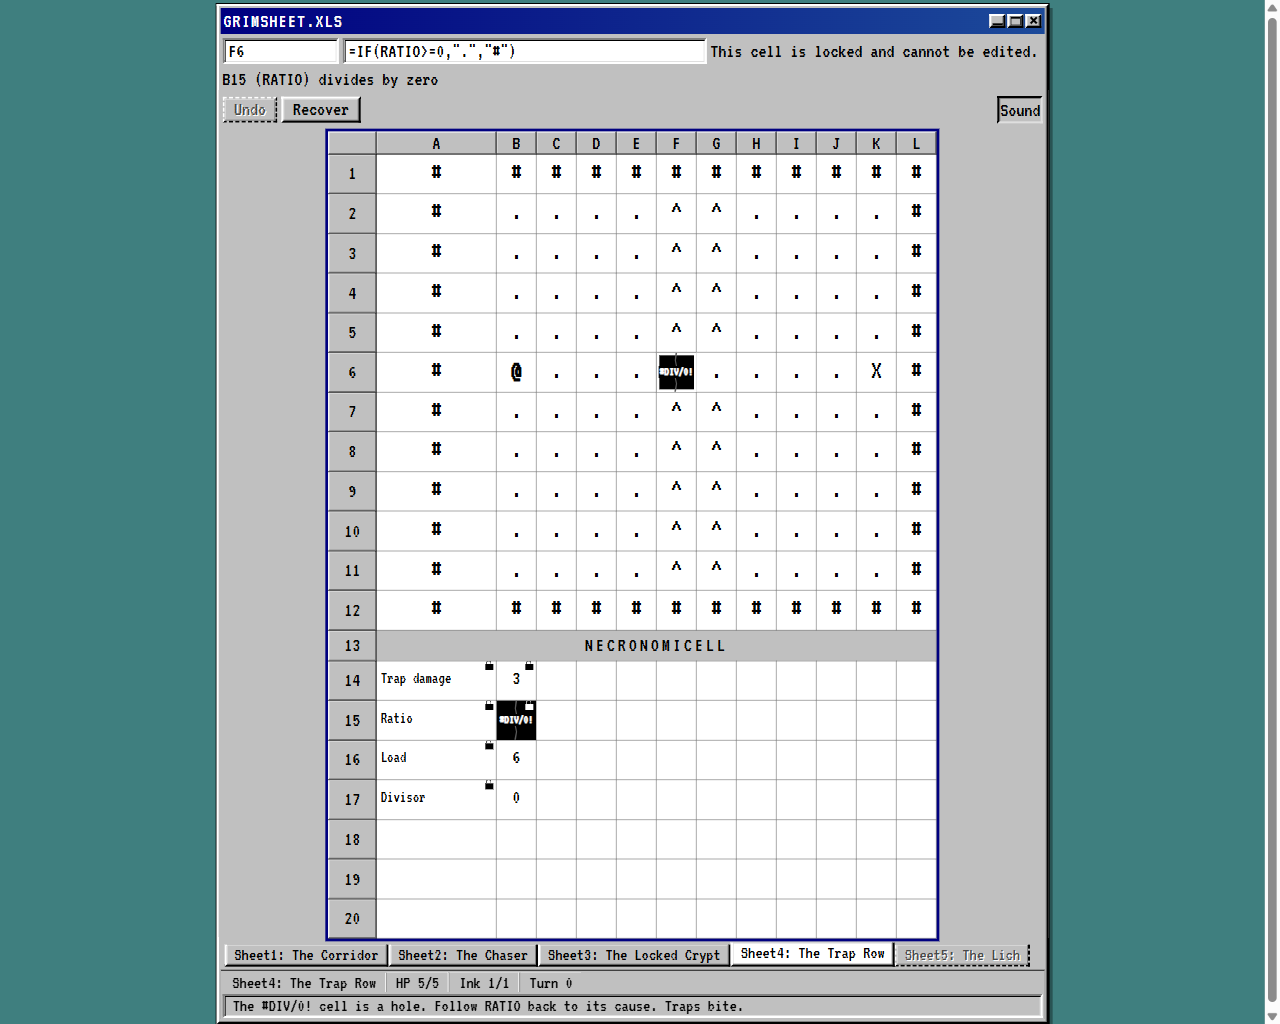
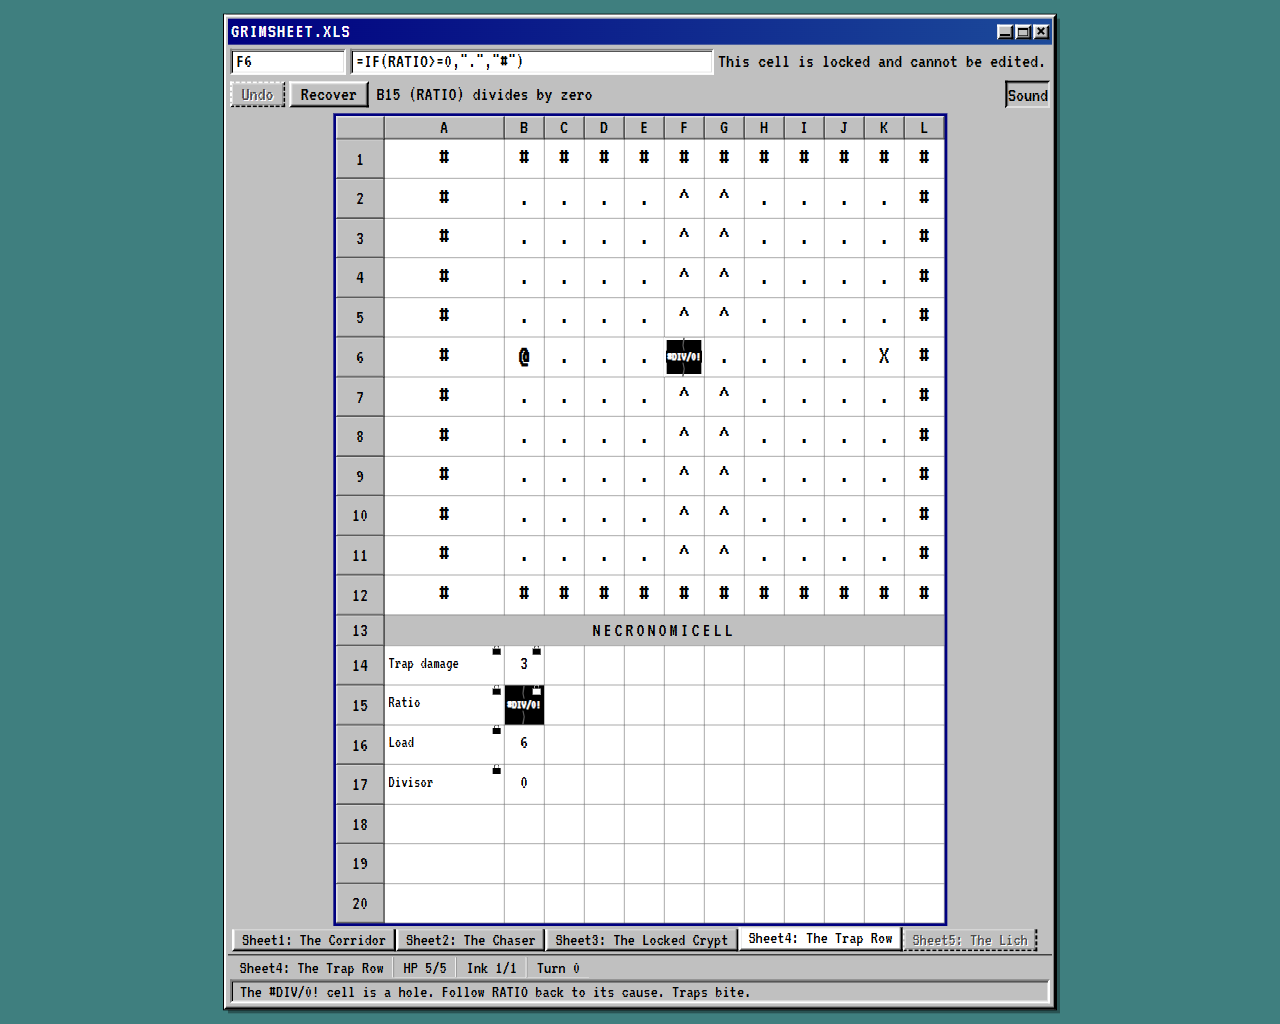
Kiro IDE: cause line moves to the toolbar row, no layout shift when selecting error cells, 04 retaken

Changed region(s): [[0.1562, 0.0, 0.8438, 1.0], [0.9688, 0.0, 1.0, 1.0]]

diff --git a/tests/e2e/layout-shift.spec.ts b/tests/e2e/layout-shift.spec.ts
@@ -1,0 +1,91 @@
+import { expect, test } from '@playwright/test';
+import type { Page } from '@playwright/test';
+
+// Selecting or deselecting a cell must not move or resize the window, and the page must never need a
+// vertical scrollbar at 1280 by 1024 (a scrollbar narrows the page and makes the window jump sideways).
+
+const LEVEL_IDS = [
+  '01-the-corridor',
+  '02-the-chaser',
+  '03-the-locked-crypt',
+  '04-the-trap-row',
+  '05-the-lich',
+] as const;
+
+test.use({ viewport: { width: 1280, height: 1024 } });
+
+/** Seeds the stored progress so that level `n` (1-based) is the current, unlocked one, then starts it. */
+async function startLevel(page: Page, n: number): Promise<void> {
+  await page.addInitScript(
+    (value) => {
+      window.localStorage.setItem('grimsheet.progress', JSON.stringify(value));
+    },
+    { version: 1, cleared: LEVEL_IDS.slice(0, n - 1), current: LEVEL_IDS[n - 1] },
+  );
+  await page.goto('/');
+  await page.locator('#title-start').click();
+  await expect(page.locator('#title-dialog')).toHaveCount(0);
+  await expect(page.locator('#status-bar')).toContainText(`Sheet${n}:`);
+}
+
+async function windowBox(page: Page): Promise<{ x: number; y: number; width: number; height: number }> {
+  const box = await page.locator('#window').boundingBox();
+  if (box === null) throw new Error('#window has no bounding box');
+  return box;
+}
+
+const scrollHeight = (page: Page): Promise<number> => page.evaluate(() => document.documentElement.scrollHeight);
+const pageWidth = (page: Page): Promise<number> => page.evaluate(() => document.documentElement.clientWidth);
+
+test('level 4: selecting and deselecting the error cell F6 leaves the window and the page unchanged', async ({
+  page,
+}) => {
+  await startLevel(page, 4);
+  const explanation = page.locator('#cell-explanation');
+  await expect(explanation).toBeHidden();
+
+  const before = await windowBox(page);
+  const widthBefore = await pageWidth(page);
+  expect(await scrollHeight(page)).toBeLessThanOrEqual(1024);
+
+  await page.locator('[data-address="F6"]').click();
+  await expect(explanation).toBeVisible();
+  await expect(explanation).toContainText('divides by zero');
+
+  expect(await windowBox(page)).toEqual(before);
+  expect(await pageWidth(page)).toBe(widthBefore);
+  expect(await scrollHeight(page)).toBeLessThanOrEqual(1024);
+
+  // Deselect: a plain floor cell has no cause line.
+  await page.locator('[data-address="C6"]').click();
+  await expect(explanation).toBeHidden();
+  expect(await windowBox(page)).toEqual(before);
+  expect(await scrollHeight(page)).toBeLessThanOrEqual(1024);
+});
+
+test('all five levels: selecting any error cell keeps the window box and a page height of at most 1024', async ({
+  page,
+}) => {
+  let errorCellsSeen = 0;
+  for (let n = 1; n <= LEVEL_IDS.length; n++) {
+    // A fresh page per level keeps the seeded progress and the layout measurements independent.
+    await page.goto('about:blank');
+    await startLevel(page, n);
+
+    const before = await windowBox(page);
+    expect(await scrollHeight(page), `level ${n} at start`).toBeLessThanOrEqual(1024);
+
+    const addresses = await page.locator('td[data-error]').evaluateAll((cells) =>
+      cells.map((cell) => cell.getAttribute('data-address') ?? ''),
+    );
+    for (const address of addresses) {
+      errorCellsSeen += 1;
+      await page.locator(`[data-address="${address}"]`).click();
+      await expect(page.locator('#cell-explanation')).toBeVisible();
+      expect(await windowBox(page), `level ${n}, ${address} selected`).toEqual(before);
+      expect(await scrollHeight(page), `level ${n}, ${address} selected`).toBeLessThanOrEqual(1024);
+    }
+  }
+  // Level 4 has a #DIV/0! cell on the map and in the rules panel; level 5 has the two cycle cells.
+  expect(errorCellsSeen).toBeGreaterThanOrEqual(4);
+});

diff --git a/src/ui/render.ts b/src/ui/render.ts
@@ -157,7 +157,7 @@ export function createView(root: HTMLElement): View {
   formulaAlert.setAttribute('role', 'alert');
   const explanation = make(doc, 'p', 'cell-explanation', 'cell-explanation');
   explanation.hidden = true;
-  formulaRow.append(nameBox, formulaBar, formulaNote, formulaAlert, explanation);
+  formulaRow.append(nameBox, formulaBar, formulaNote, formulaAlert);
 
   const toolbar = make(doc, 'div', 'toolbar');
   const buttonFor = (control: string, label: string): HTMLButtonElement => {
@@ -173,7 +173,9 @@ export function createView(root: HTMLElement): View {
   nextButton.hidden = true;
   const soundButton = buttonFor('sound', STRINGS.buttons.sound);
   soundButton.setAttribute('aria-pressed', 'true');
-  toolbar.append(undoButton, recoverButton, nextButton, soundButton);
+  // The cause line lives in the toolbar row, in the free space between the buttons and Sound, so showing
+  // or hiding it never changes the window height (a line of its own in the formula row did).
+  toolbar.append(undoButton, recoverButton, nextButton, explanation, soundButton);
 
   const table = make(doc, 'table', 'grid-table', 'grid-table');
   table.setAttribute('role', 'grid');
@@ -365,6 +367,7 @@ export function createView(root: HTMLElement): View {
 
     setText(explanation, vm.explanation?.text ?? '');
     setAttr(explanation, 'data-error', vm.explanation?.kind);
+    setAttr(explanation, 'title', vm.explanation?.text);
     const explanationHidden = vm.explanation === undefined;
     if (explanation.hidden !== explanationHidden) explanation.hidden = explanationHidden;
 

diff --git a/src/ui/render.test.ts b/src/ui/render.test.ts
@@ -278,12 +278,26 @@ describe('cell attributes', () => {
 });
 
 describe('explanation line', () => {
-  it('has no role and no aria-live and sits in the formula row', () => {
+  it('has no role and no aria-live and sits in the toolbar row, not the formula row', () => {
     createView(root).update(makeVm());
     const explanation = root.querySelector('#cell-explanation');
     expect(explanation?.hasAttribute('role')).toBe(false);
     expect(explanation?.hasAttribute('aria-live')).toBe(false);
     expect(explanation?.classList.contains('cell-explanation')).toBe(true);
+    // A line of its own in the formula row made the window taller (layout shift); the toolbar row has room.
+    expect(explanation?.parentElement?.classList.contains('toolbar')).toBe(true);
+    expect(root.querySelector('.formula-row #cell-explanation')).toBeNull();
+  });
+
+  it('keeps the full text in the title while shown and drops it when hidden', () => {
+    const view = createView(root);
+    view.update(makeVm({}, { explanation: { text: 'B15 (RATIO) divides by zero', kind: '#DIV/0!' } }));
+    const shown = root.querySelector<HTMLElement>('#cell-explanation');
+    expect(shown?.hidden).toBe(false);
+    expect(shown?.getAttribute('title')).toBe('B15 (RATIO) divides by zero');
+    view.update(makeVm());
+    expect(shown?.hidden).toBe(true);
+    expect(shown?.hasAttribute('title')).toBe(false);
   });
 
   it('fills text, data-error and hidden from the view model', () => {

diff --git a/src/styles/chrome.css b/src/styles/chrome.css
@@ -210,9 +210,17 @@ body {
   color: var(--alert);
 }
 
+/* The cause line shares the toolbar row, between the buttons and Sound. It takes the spare width and
+   never wraps, so showing or hiding it cannot change the window height; a cause too long for the row
+   is clipped with an ellipsis (the full text stays in the DOM and in the title). */
 .cell-explanation {
-  flex: 1 0 100%;
-  margin: 0;
+  flex: 1 1 0;
+  align-self: center;
+  min-width: 0;
+  margin: 0 0.25rem;
+  overflow: hidden;
+  white-space: nowrap;
+  text-overflow: ellipsis;
 }
 
 .toolbar {

diff --git a/.kiro/specs/skin-and-sound/tasks.md b/.kiro/specs/skin-and-sound/tasks.md
@@ -139,7 +139,7 @@ Rules that apply to every task:
 
   - [x] 6.2 [Batch 6] [IDE] Take the README screenshots (last task)
     - Files: create `docs/screenshots/01-title.png`, `docs/screenshots/02-level-play.png`, `docs/screenshots/03-monster-formula.png`, `docs/screenshots/04-error-monster.png`, `docs/screenshots/05-death-dialog.png`, `docs/screenshots/06-win-dialog.png`, `docs/screenshots/07-small-viewport.png`, `docs/screenshots/README.md`
-    - Manual and Playwright-MCP-driven; run it only after every other task is ticked. Start the dev server in the background with `node node_modules/vite/bin/vite.js`, use a clean browser profile (`localStorage.clear()` before the first shot) and check `document.documentElement.scrollHeight <= 1024` at 1280 by 1024 before shooting. Before every shot, wait until no finite animation is still running: poll `document.getAnimations()` until none has `playState === 'running'` and a finite iteration count (ignore the endless ghost drift, which never finishes), so no slide or flash is caught mid-frame. Seed later levels with `localStorage.setItem('grimsheet.progress', JSON.stringify({ version: 1, cleared: [<ids before the level>], current: '<level id>' }))` and reload; level ids are `01-the-corridor`, `02-the-chaser`, `03-the-locked-crypt`, `04-the-trap-row`, `05-the-lich`. Deterministic action lists, all at 1280 by 1024 except the last: `01-title.png` clear storage, reload, shoot with the title dialog open and Start focused; `02-level-play.png` click Start, seed level 3 (cleared 01 and 02), reload, Start, click `B17` (`KEY`), shoot with the NECRONOMICELL panel and `=RUNE_ASH*RUNE_SALT` in the formula bar; `03-monster-formula.png` seed level 2 (cleared 01), reload, Start, click `B14` (`MOVE_M1`), shoot with its formula in the formula bar and the monster on the map; `04-error-monster.png` seed level 4 (cleared 01 to 03), reload, Start, click `F6` (the `#DIV/0!` cell), shoot with the cause line under the formula bar; `05-death-dialog.png` seed level 5 (cleared 01 to 04), reload, Start, press Space six times (haunted from turn 0), shoot the lost dialog with the focus ring on Recover; `06-win-dialog.png` seed level 1, reload, Start, press ArrowRight nine times (B6 to K6), shoot the win dialog with Next level focused; `07-small-viewport.png` resize to 1366 by 768, clear storage, reload, Start, scroll so the status bar rests at the viewport bottom, shoot the viewport with HP, ink, turn and Message visible. If a given action list does not reach the stated state, report the real list that did and use it
+    - Manual and Playwright-MCP-driven; run it only after every other task is ticked. Start the dev server in the background with `node node_modules/vite/bin/vite.js`, use a clean browser profile (`localStorage.clear()` before the first shot) and check `document.documentElement.scrollHeight <= 1024` at 1280 by 1024 before shooting. Before every shot, wait until no finite animation is still running: poll `document.getAnimations()` until none has `playState === 'running'` and a finite iteration count (ignore the endless ghost drift, which never finishes), so no slide or flash is caught mid-frame. Seed later levels with `localStorage.setItem('grimsheet.progress', JSON.stringify({ version: 1, cleared: [<ids before the level>], current: '<level id>' }))` and reload; level ids are `01-the-corridor`, `02-the-chaser`, `03-the-locked-crypt`, `04-the-trap-row`, `05-the-lich`. Deterministic action lists, all at 1280 by 1024 except the last: `01-title.png` clear storage, reload, shoot with the title dialog open and Start focused; `02-level-play.png` click Start, seed level 3 (cleared 01 and 02), reload, Start, click `B17` (`KEY`), shoot with the NECRONOMICELL panel and `=RUNE_ASH*RUNE_SALT` in the formula bar; `03-monster-formula.png` seed level 2 (cleared 01), reload, Start, click `B14` (`MOVE_M1`), shoot with its formula in the formula bar and the monster on the map; `04-error-monster.png` seed level 4 (cleared 01 to 03), reload, Start, click `F6` (the `#DIV/0!` cell), shoot with the cause line on the toolbar row below the formula bar; `05-death-dialog.png` seed level 5 (cleared 01 to 04), reload, Start, press Space six times (haunted from turn 0), shoot the lost dialog with the focus ring on Recover; `06-win-dialog.png` seed level 1, reload, Start, press ArrowRight nine times (B6 to K6), shoot the win dialog with Next level focused; `07-small-viewport.png` resize to 1366 by 768, clear storage, reload, Start, scroll so the status bar rests at the viewport bottom, shoot the viewport with HP, ink, turn and Message visible. If a given action list does not reach the stated state, report the real list that did and use it
     - `docs/screenshots/README.md`: one line per file, seven lines, each naming the file and what it shows. Afterwards `localStorage.clear()`, close the browser, stop the dev server, remove temporary files, commit nothing
     - Look at every image and check that the shapes read as intended and the VT323 text is legible; list any visual problems found. Fix only trivial CSS bugs found this way; list anything else without fixing it
     - Tests: no new test file; the checks below are the test

diff --git a/.kiro/specs/skin-and-sound/design.md b/.kiro/specs/skin-and-sound/design.md
@@ -1096,7 +1096,7 @@ Playwright MCP, clean profile (start the dev server in the background; storage c
 | `01-title.png` | Clear storage, reload `/`. Screenshot with the title dialog open and Start focused. |
 | `02-level-play.png` | Click Start. Seed progress to level 3 (cleared 01, 02), reload, Start. Click `B17` (`KEY`), screenshot: NECRONOMICELL panel, formula bar with `=RUNE_ASH*RUNE_SALT`, padlocks only on the rules cells. |
 | `03-monster-formula.png` | Seed level 2 (cleared 01), reload, Start. Click `B14` (`MOVE_M1`). Screenshot with `=IF(DIST(HERO,SELF)<4,TOWARD(HERO),"-")` in the formula bar and the monster `M` on H6. |
-| `04-error-monster.png` | Seed level 4 (cleared 01 to 03), reload, Start. Click `F6` (the `#DIV/0!` cell); screenshot with the cause line under the formula bar. |
+| `04-error-monster.png` | Seed level 4 (cleared 01 to 03), reload, Start. Click `F6` (the `#DIV/0!` cell); screenshot with the cause line on the toolbar row below the formula bar. |
 | `05-death-dialog.png` | Seed level 5 (cleared 01 to 04), reload, Start. Press Space six times (the sheet is haunted from turn 0: HP 6 to 0, deterministic, verified with the headless play command). Screenshot with the "#REF! of the Dead" dialog and focus ring on Recover. |
 | `06-win-dialog.png` | Seed level 1, reload, Start. Press ArrowRight nine times (B6 to K6). Screenshot with the "Changes saved." dialog and Next level focused. |
 | `07-small-viewport.png` | Resize the viewport to **1366 by 768**. Clear storage, reload `/`, Start (level 1 in play). Scroll so the Status_Bar is at the viewport bottom; screenshot the full viewport showing the sticky Status_Bar (HP, Ink, Turn, Message) visible at the bottom while the top of the window is scrolled off. This is the only shot taken at 1366 by 768. |

diff --git a/docs/screenshots/README.md b/docs/screenshots/README.md
@@ -1,7 +1,7 @@
 01-title.png: the title dialog on a fresh profile, with the Start button focused (1280x1024).
 02-level-play.png: level 3, The Locked Crypt, with the KEY cell B17 selected and =RUNE_ASH*RUNE_SALT in the formula bar (1280x1024).
 03-monster-formula.png: level 2, The Chaser, with the monster M on the map and its move rule MOVE_M1 in the formula bar (1280x1024).
-04-error-monster.png: level 4, The Trap Row, with the #DIV/0! cell F6 selected and its cause line under the formula bar (1280x1024).
+04-error-monster.png: level 4, The Trap Row, with the #DIV/0! cell F6 selected and its cause line on the toolbar row below the formula bar (1280x1024).
 05-death-dialog.png: level 5, The Lich, after six waits in a haunted sheet, with the lost dialog and the focus ring on Recover (1280x1024).
 06-win-dialog.png: level 1, The Corridor, with the hero on K6 and the win dialog showing Next level focused (1280x1024).
 07-small-viewport.png: level 1 at 1366x768, scrolled so the status bar with HP, ink, turn and the message rests at the bottom of the viewport.

diff --git a/README.md b/README.md
@@ -184,7 +184,7 @@ Grimsheet was built with Kiro, from a single input brief (`docs/BRIEF.md`) that 
 
 *The title dialog: Start hands the grid to the player.*
 
-![Level 4, The Trap Row: the #DIV/0! cell F6 selected, its formula in the formula bar, and the cause line "B15 (RATIO) divides by zero" under it.](docs/screenshots/04-error-monster.png)
+![Level 4, The Trap Row: the #DIV/0! cell F6 selected, its formula in the formula bar, and the cause line "B15 (RATIO) divides by zero" on the toolbar row below it.](docs/screenshots/04-error-monster.png)
 
 *A #DIV/0! error cell and its cause line, in plain English.*
 
